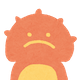
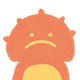
キャラの反転の中心をカーソル位置に修正

diff --git a/folks/character.go b/folks/character.go
@@ -36,13 +36,13 @@ func (c *Character) IsMine(myID string) bool {
 }
 
 // Draw draws the sprite.
-func (c *Character) Draw(screen *ebiten.Image, dx, dy int, alpha float32) {
+func (c *Character) Draw(screen *ebiten.Image) {
 	op := &ebiten.DrawImageOptions{}
 	op.Filter = ebiten.FilterLinear
 	if c.dir == entity.DirLeft {
 		op.GeoM.Scale(-1, 1)
+		op.GeoM.Translate(characterWidth, 0)
 	}
-	op.GeoM.Translate(float64(c.x+dx), float64(c.y+dy))
-	op.ColorScale.ScaleAlpha(alpha)
+	op.GeoM.Translate(float64(c.x)-characterWidth/2, float64(c.y)-characterHeight/2)
 	screen.DrawImage(c.image, op)
 }

diff --git a/folks/game.go b/folks/game.go
@@ -185,7 +185,7 @@ func (g *Game) drawGopher(screen *ebiten.Image) {
 	}
 	sort.Strings(characterKeys)
 	for _, k := range characterKeys {
-		g.characters[k].Draw(screen, 0, 0, 1)
+		g.characters[k].Draw(screen)
 	}
 
 	// SpeechBubble

diff --git a/static/embed.go b/static/embed.go
@@ -19,9 +19,6 @@ import (
 )
 
 var (
-	//go:embed 00.png
-	Image00 []byte
-
 	//go:embed 01.png
 	Image01 []byte
 
@@ -83,7 +80,6 @@ var (
 	Image20 []byte
 
 	Images = [][]byte{
-		Image00,
 		Image01,
 		Image02,
 		Image03,

diff --git a/folks/config.go b/folks/config.go
@@ -22,6 +22,8 @@ const (
 	TextFieldPadding  = 16
 	fontSize          = 24
 	smallFontSize     = fontSize / 2
+	characterWidth    = 80
+	characterHeight   = 80
 )
 
 var (
